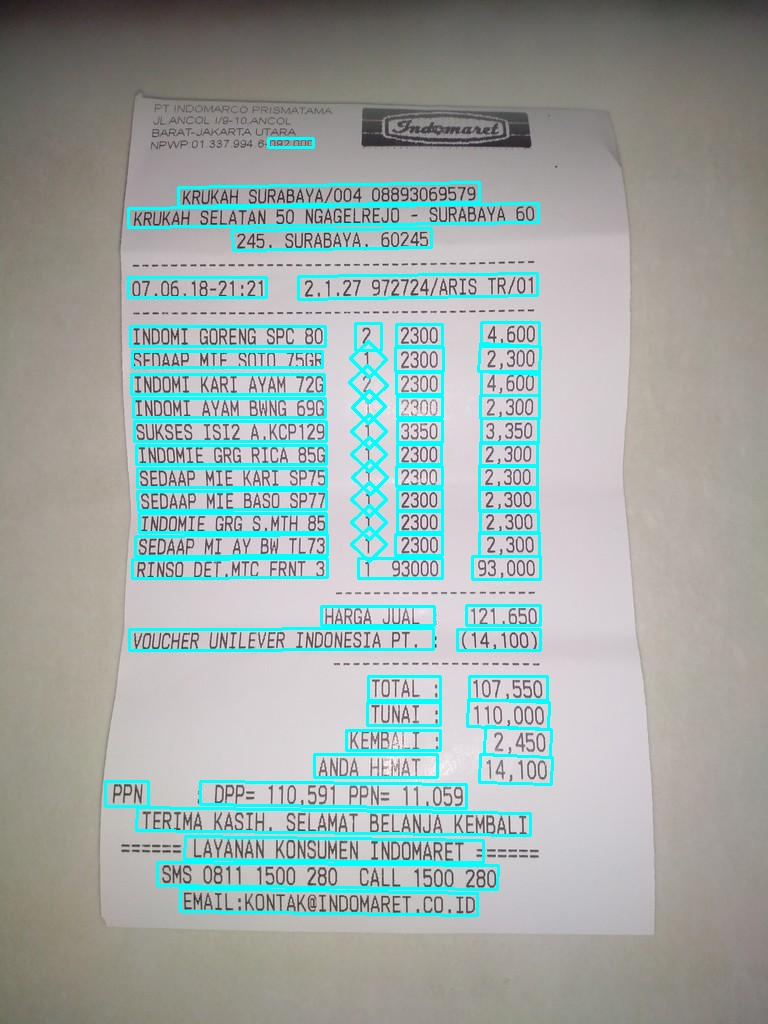
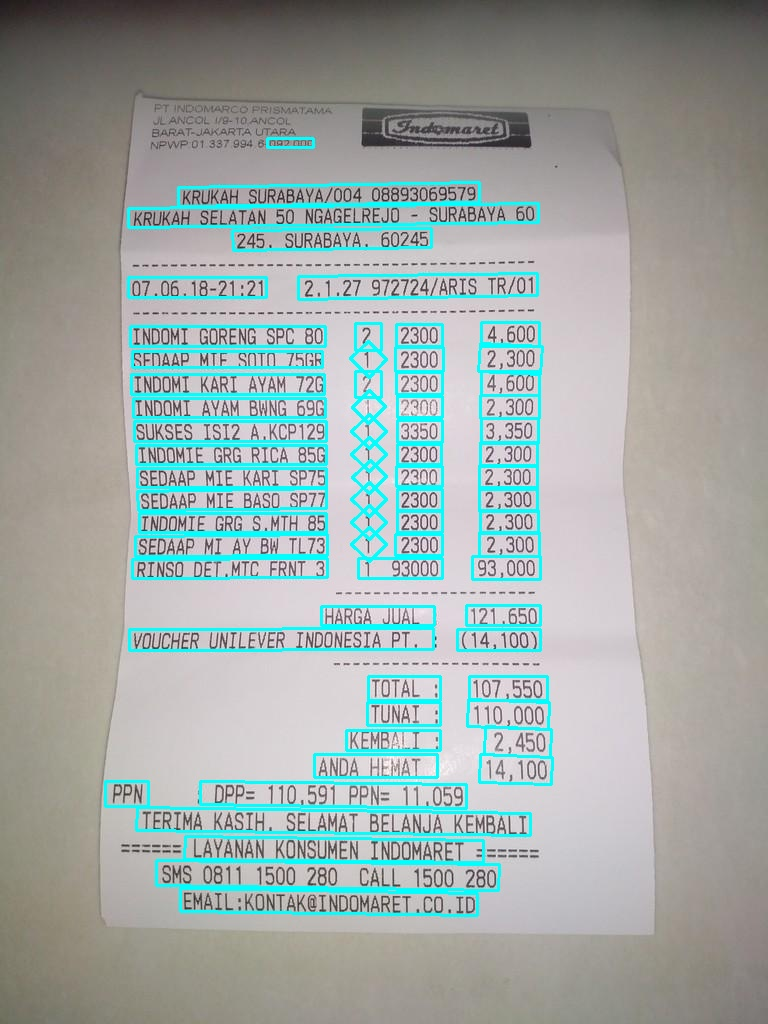
change base64 decode

diff --git a/app.py b/app.py
@@ -4,6 +4,7 @@ from config import parse_args
 from inference import TextDetector, TextRecognizer, detection, recognition
 from draw import pair, to_json
 from datetime import datetime
+from base64 import b64decode
 import numpy as np
 import os, cv2
 
@@ -51,18 +52,19 @@ def predict():
 
     return jsonify(r_json)
 
-def base64_to_cv(data):
-    encoded_img = data.split(",")[1]
-    arr =  np.fromstring(encoded_img.decode('base64'), np.uint8)
+def base64_to_cv(uri):
+    encoded_data = uri.split(',')[1]
+    arr =  np.fromstring(b64decode(encoded_data), np.uint8)
     img = cv2.imdecode(arr, cv2.IMREAD_COLOR)
     return img
 
 @app.route("/predict_json", methods=["POST"])
 def Predict():
     data = request.json
+    # print(data)
 
     templates = data["additional_params"]["template"]
-    image = data["images"][0]
+    image = data["images"][0].split(":")[1]
     mimetype, base64 = image.split(";")
 
     supported_mimetypes = ["image/jpeg"]
